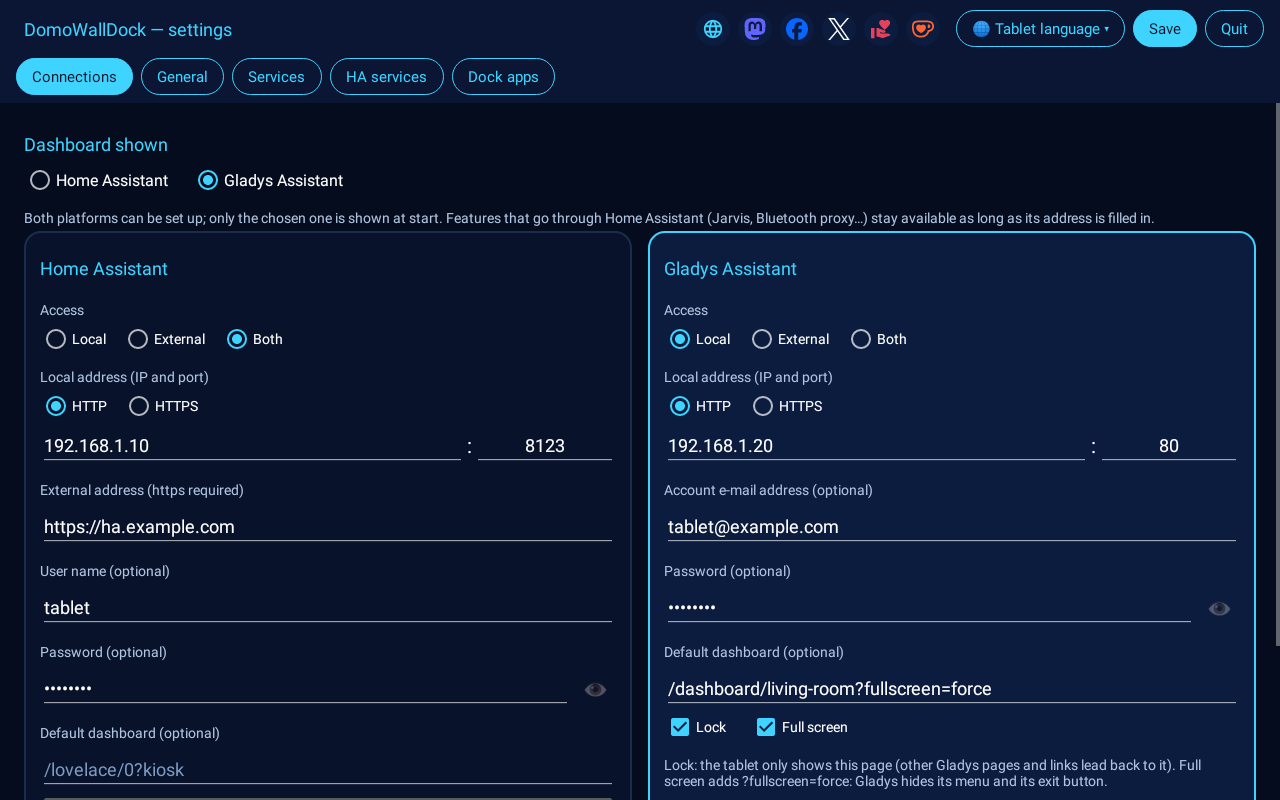
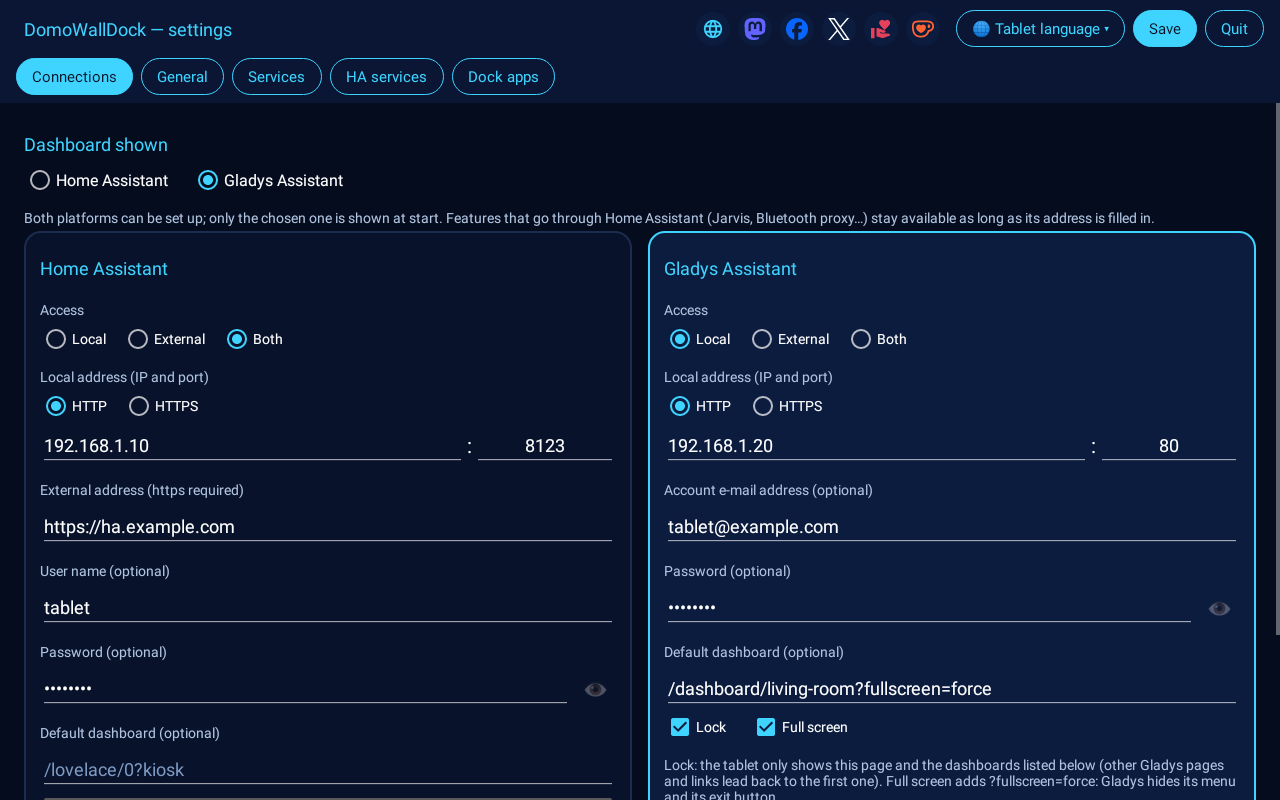
Version 0.25.0 : tableaux de bord autorisés, tuto et captures à jour

Changed region(s): [[0.5, 0.9375, 0.9688, 1.0]]

diff --git a/app/src/test/java/app/walldock/TutoScreenshotsTest.kt b/app/src/test/java/app/walldock/TutoScreenshotsTest.kt
@@ -27,17 +27,17 @@ import java.io.File
 @Config(sdk = [34])
 class TutoScreenshotsTest {
 
-    @Test @Config(qualifiers = "fr-w800dp-h1280dp-port-mdpi") fun gladysFr() = gladys("fr", "tablette@exemple.fr", "/dashboard/salon", "/dashboard/veille")
-    @Test @Config(qualifiers = "en-w800dp-h1280dp-port-mdpi") fun gladysEn() = gladys("en", "tablet@example.com", "/dashboard/living-room", "/dashboard/screensaver")
-    @Test @Config(qualifiers = "de-w800dp-h1280dp-port-mdpi") fun gladysDe() = gladys("de", "tablet@beispiel.de", "/dashboard/wohnzimmer", "/dashboard/bildschirmschoner")
-    @Test @Config(qualifiers = "es-w800dp-h1280dp-port-mdpi") fun gladysEs() = gladys("es", "tableta@ejemplo.es", "/dashboard/salon", "/dashboard/salvapantallas")
+    @Test @Config(qualifiers = "fr-w800dp-h1280dp-port-mdpi") fun gladysFr() = gladys("fr", "tablette@exemple.fr", "/dashboard/salon", "/dashboard/veille", "cuisine")
+    @Test @Config(qualifiers = "en-w800dp-h1280dp-port-mdpi") fun gladysEn() = gladys("en", "tablet@example.com", "/dashboard/living-room", "/dashboard/screensaver", "kitchen")
+    @Test @Config(qualifiers = "de-w800dp-h1280dp-port-mdpi") fun gladysDe() = gladys("de", "tablet@beispiel.de", "/dashboard/wohnzimmer", "/dashboard/bildschirmschoner", "kueche")
+    @Test @Config(qualifiers = "es-w800dp-h1280dp-port-mdpi") fun gladysEs() = gladys("es", "tableta@ejemplo.es", "/dashboard/salon", "/dashboard/salvapantallas", "cocina")
 
     @Test @Config(qualifiers = "fr-w1280dp-h800dp-land-mdpi") fun dockFr() = dock("fr")
     @Test @Config(qualifiers = "en-w1280dp-h800dp-land-mdpi") fun dockEn() = dock("en")
     @Test @Config(qualifiers = "de-w1280dp-h800dp-land-mdpi") fun dockDe() = dock("de")
     @Test @Config(qualifiers = "es-w1280dp-h800dp-land-mdpi") fun dockEs() = dock("es")
 
-    private fun gladys(lang: String, email: String, dashboard: String, saver: String) {
+    private fun gladys(lang: String, email: String, dashboard: String, saver: String, allowed: String) {
         val app = RuntimeEnvironment.getApplication()
         val prefs = Prefs(app)
         prefs.pin = "1234"
@@ -48,6 +48,8 @@ class TutoScreenshotsTest {
         prefs.gladysUser = email
         prefs.gladysPassword = "motdepasse"
         prefs.gladysDashboard = dashboard
+        prefs.gladysDashboardLocked = true
+        prefs.gladysAllowedDashboards = listOf(dashboard.substringBeforeLast('/') + "/" + allowed)
         prefs.mqttEnabled = true
         prefs.mqttHost = "192.168.1.20"
         prefs.mqttUser = "tablet"

diff --git a/app/src/test/java/app/walldock/SettingsPreviewTest.kt b/app/src/test/java/app/walldock/SettingsPreviewTest.kt
@@ -48,7 +48,7 @@ class SettingsPreviewTest {
     private fun shoot(name: String) {
         val prefs = Prefs(RuntimeEnvironment.getApplication())
         prefs.pin = "1234"
-        prefs.platform = Prefs.PLATFORM_HA
+        prefs.platform = Prefs.PLATFORM_GLADYS
         prefs.ha.access = Prefs.ACCESS_BOTH
         prefs.ha.ip = "192.168.1.10"
         prefs.ha.external = "https://ha.exemple.fr"
@@ -57,6 +57,9 @@ class SettingsPreviewTest {
         prefs.gladys.ip = "192.168.1.20"
         prefs.gladysUser = "tablette@exemple.fr"
         prefs.gladysPassword = "secret"
+        prefs.gladysDashboard = "/dashboard/salon?fullscreen=force"
+        prefs.gladysDashboardLocked = true
+        prefs.gladysAllowedDashboards = listOf("/dashboard/cuisine", "/dashboard/chambre")
 
         // Quelques applis d'exemple pour l'onglet « Applis Dock » (Robolectric n'en a aucune)
         val shadowPm = org.robolectric.Shadows.shadowOf(RuntimeEnvironment.getApplication().packageManager)

diff --git a/app/src/test/java/app/walldock/ReadmeScreenshotsTest.kt b/app/src/test/java/app/walldock/ReadmeScreenshotsTest.kt
@@ -49,6 +49,7 @@ class ReadmeScreenshotsTest {
         prefs.gladysPassword = "password"
         prefs.gladysDashboard = withFullscreen(dashboard)
         prefs.gladysDashboardLocked = true
+        prefs.gladysAllowedDashboards = listOf(dashboard.substringBeforeLast('/') + "/cuisine")
         prefs.calendarInDock = true
         prefs.chargeEnabled = true
         prefs.mqttEnabled = true

diff --git a/docs/TUTO-GLADYS.de.md b/docs/TUTO-GLADYS.de.md
@@ -42,7 +42,7 @@ Die Einstellungen sind in fünf Tabs gegliedert: **Verbindungen**, **Allgemein**
    - **Beides**: Die App nimmt die lokale Adresse, wenn sie antwortet, sonst die externe (ein Tablet, das das Haus verlässt).
 3. **Lokale Adresse**: HTTP (oder HTTPS, wenn deine Gladys es nutzt), die **IP** von Gladys und der **Port** (standardmäßig 80).
 4. **E-Mail-Adresse und Passwort** eines Gladys-Kontos: Das Tablet meldet sich selbst an, wenn die Anmeldeseite erscheint. Tipp: Lege in Gladys ein eigenes Konto für das Tablet an, ohne Administratorrechte.
-5. **Standard-Dashboard** (optional): die anzuzeigende Seite, z. B. `/dashboard/wohnzimmer`: Das Feld beginnt bereits mit `/dashboard/`, es genügt, den Namen des Dashboards anzuhängen (leeren, um Gladys wählen zu lassen). Kreuzen Sie **Sperren** an, damit das Tablet nur diese Seite zeigt, und kreuzen Sie **Vollbild** an, um `?fullscreen=force` hinzuzufügen (Gladys ohne Menü und ohne Schaltfläche zum Beenden).
+5. **Standard-Dashboard** (optional): die anzuzeigende Seite, z. B. `/dashboard/wohnzimmer`: Das Feld beginnt bereits mit `/dashboard/`, es genügt, den Namen des Dashboards anzuhängen (leeren, um Gladys wählen zu lassen). Kreuzen Sie **Sperren** an, damit das Tablet nur diese Seite zeigt, und kreuzen Sie **Vollbild** an, um `?fullscreen=force` hinzuzufügen (Gladys ohne Menü und ohne Schaltfläche zum Beenden). Mit der Sperre kannst du unter **Weitere erlaubte Dashboards** weitere Dashboards zugänglich lassen: Tippe auf **+**, um eine Zeile hinzuzufügen (z. B. `/dashboard/kueche`), auf ✕, um sie zu entfernen.
 6. Tippe auf **Anmeldung testen**: ein ✅ pro eingerichteter Adresse. Andernfalls sagt die Meldung, woran es hakt (Server nicht erreichbar, Konto abgelehnt…).
 
 > **Netzwerk**: Ist das Tablet in einem anderen WLAN oder VLAN als Gladys (Netz für smarte Geräte, Gäste…), muss deine Firewall ihm erlauben, Gladys zu erreichen (Port 80 oder der Port deiner Gladys) und, für Schritt 5, den MQTT-Broker (Port 1883).

diff --git a/docs/TUTO-GLADYS.md b/docs/TUTO-GLADYS.md
@@ -42,7 +42,7 @@ Les réglages sont rangés en cinq onglets : **Connexions**, **Généraux**, **S
    - **Les deux** : l'appli prend l'adresse locale quand elle répond, sinon l'externe (tablette qui sort de la maison).
 3. **Adresse locale** : HTTP (ou HTTPS si votre Gladys l'utilise), l'**IP** de Gladys et le **port** (80 par défaut).
 4. **Adresse e-mail et mot de passe** d'un compte Gladys : la tablette se connecte toute seule quand la page de connexion s'affiche. Conseil : créez dans Gladys un compte dédié à la tablette, sans droits d'administration.
-5. **Tableau de bord par défaut** (facultatif) : la page à afficher, par exemple `/dashboard/salon` : le champ commence déjà par `/dashboard/`, il suffit d'ajouter le nom du tableau de bord (effacez-le pour laisser Gladys choisir). Cochez **Verrouiller** pour que la tablette n'affiche que cette page, et cochez **Plein écran** pour ajouter `?fullscreen=force` (Gladys sans menu ni bouton de sortie).
+5. **Tableau de bord par défaut** (facultatif) : la page à afficher, par exemple `/dashboard/salon` : le champ commence déjà par `/dashboard/`, il suffit d'ajouter le nom du tableau de bord (effacez-le pour laisser Gladys choisir). Cochez **Verrouiller** pour que la tablette n'affiche que cette page, et cochez **Plein écran** pour ajouter `?fullscreen=force` (Gladys sans menu ni bouton de sortie). Avec le verrouillage, la rubrique **Autres tableaux de bord autorisés** permet d'en laisser d'autres accessibles : touchez **+** pour ajouter une ligne (par exemple `/dashboard/cuisine`), ✕ pour la retirer.
 6. Touchez **Tester la connexion** : un ✅ par adresse configurée. Sinon, le message dit ce qui bloque (serveur injoignable, compte refusé…).
 
 > **Réseau** : si la tablette est sur un autre réseau Wi-Fi ou un autre VLAN que Gladys (réseau « objets connectés », invités…), votre pare-feu doit la laisser joindre Gladys (port 80, ou celui de votre Gladys) et, pour l'étape 5, le broker MQTT (port 1883).

diff --git a/docs/TUTO-GLADYS.es.md b/docs/TUTO-GLADYS.es.md
@@ -42,7 +42,7 @@ Los ajustes se dividen en cinco pestañas: **Conexiones**, **Generales**, **Serv
    - **Ambos**: la app usa la dirección local cuando responde y, si no, la externa (una tableta que sale de casa).
 3. **Dirección local**: HTTP (o HTTPS si tu Gladys lo usa), la **IP** de Gladys y el **puerto** (80 por defecto).
 4. **Correo electrónico y contraseña** de una cuenta de Gladys: la tableta inicia sesión sola cuando aparece la página de inicio de sesión. Consejo: crea en Gladys una cuenta dedicada a la tableta, sin derechos de administración.
-5. **Panel predeterminado** (opcional): la página que mostrar, por ejemplo `/dashboard/salon`: el campo ya empieza por `/dashboard/`, basta con añadir el nombre del panel (bórrelo para que Gladys elija). Marque **Bloquear** para que la tableta solo muestre esa página y marque **Pantalla completa** para añadir `?fullscreen=force` (Gladys sin menú ni botón de salida).
+5. **Panel predeterminado** (opcional): la página que mostrar, por ejemplo `/dashboard/salon`: el campo ya empieza por `/dashboard/`, basta con añadir el nombre del panel (bórrelo para que Gladys elija). Marque **Bloquear** para que la tableta solo muestre esa página y marque **Pantalla completa** para añadir `?fullscreen=force` (Gladys sin menú ni botón de salida). Con el bloqueo, la sección **Otros paneles permitidos** deja accesibles otros paneles: toca **+** para añadir una línea (por ejemplo `/dashboard/cocina`), ✕ para quitarla.
 6. Toca **Probar el inicio de sesión**: un ✅ por cada dirección configurada. Si no, el mensaje dice qué falla (servidor inaccesible, cuenta rechazada…).
 
 > **Red**: si la tableta está en otra red Wi-Fi u otra VLAN que Gladys (red de objetos conectados, invitados…), tu cortafuegos debe dejarla llegar a Gladys (puerto 80, o el de tu Gladys) y, para el paso 5, al broker MQTT (puerto 1883).

diff --git a/docs/TUTO-GLADYS.en.md b/docs/TUTO-GLADYS.en.md
@@ -42,7 +42,7 @@ The settings are split into five tabs: **Connections**, **General**, **Services*
    - **Both**: the app uses the local address when it answers, otherwise the external one (a tablet that leaves the house).
 3. **Local address**: HTTP (or HTTPS if your Gladys uses it), the Gladys **IP** and the **port** (80 by default).
 4. **E-mail address and password** of a Gladys account: the tablet signs in by itself when the login page shows. Tip: create a Gladys account dedicated to the tablet, without admin rights.
-5. **Default dashboard** (optional): the page to show, for instance `/dashboard/living-room`: the field already starts with `/dashboard/`, just add the dashboard name (clear it to let Gladys choose). Tick **Lock** so the tablet only shows that page, and tick **Full screen** to add `?fullscreen=force` (Gladys with no menu and no exit button).
+5. **Default dashboard** (optional): the page to show, for instance `/dashboard/living-room`: the field already starts with `/dashboard/`, just add the dashboard name (clear it to let Gladys choose). Tick **Lock** so the tablet only shows that page, and tick **Full screen** to add `?fullscreen=force` (Gladys with no menu and no exit button). With the lock, the **Other allowed dashboards** section lets you keep other dashboards reachable: tap **+** to add a line (for instance `/dashboard/kitchen`), ✕ to remove it.
 6. Tap **Test the sign-in**: one ✅ per configured address. Otherwise, the message says what is wrong (server not reachable, account refused…).
 
 > **Network**: if the tablet is on another Wi-Fi network or VLAN than Gladys ("IoT" network, guests…), your firewall must let it reach Gladys (port 80, or your Gladys port) and, for step 5, the MQTT broker (port 1883).
